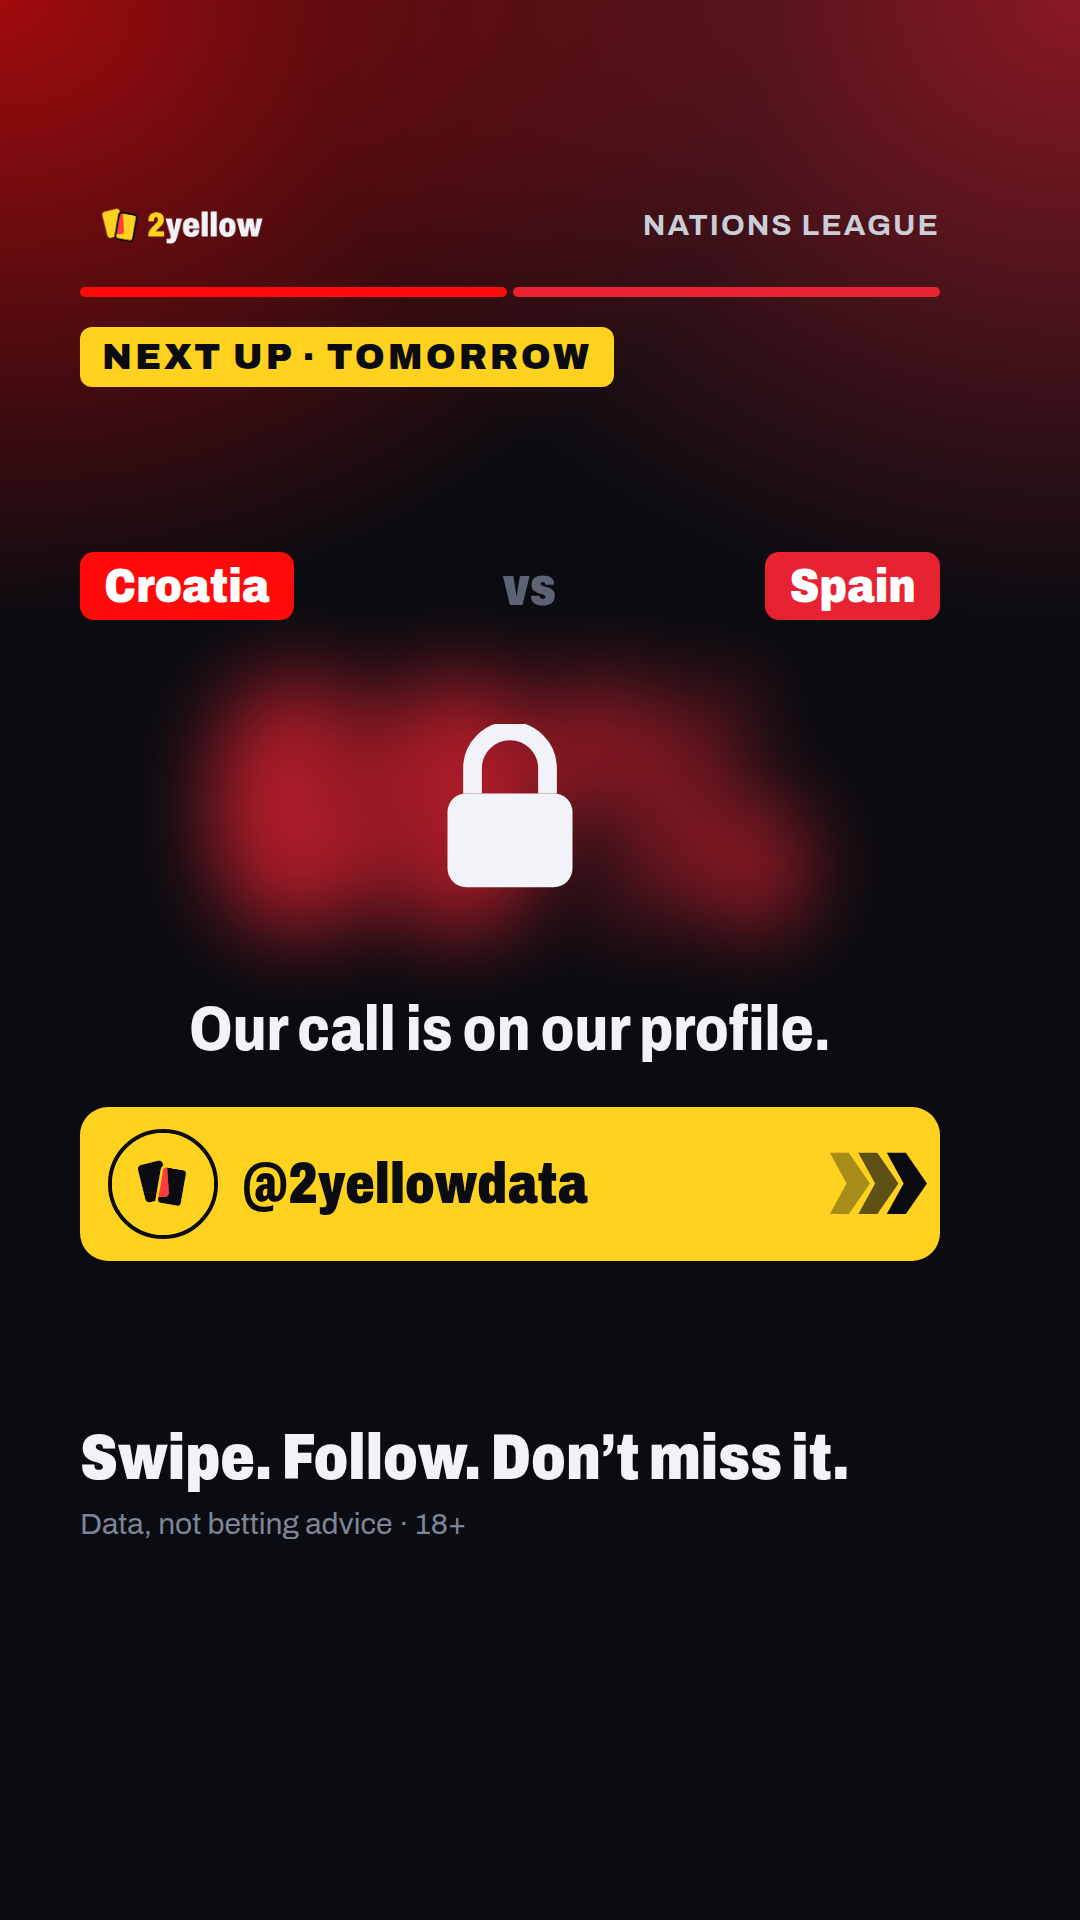
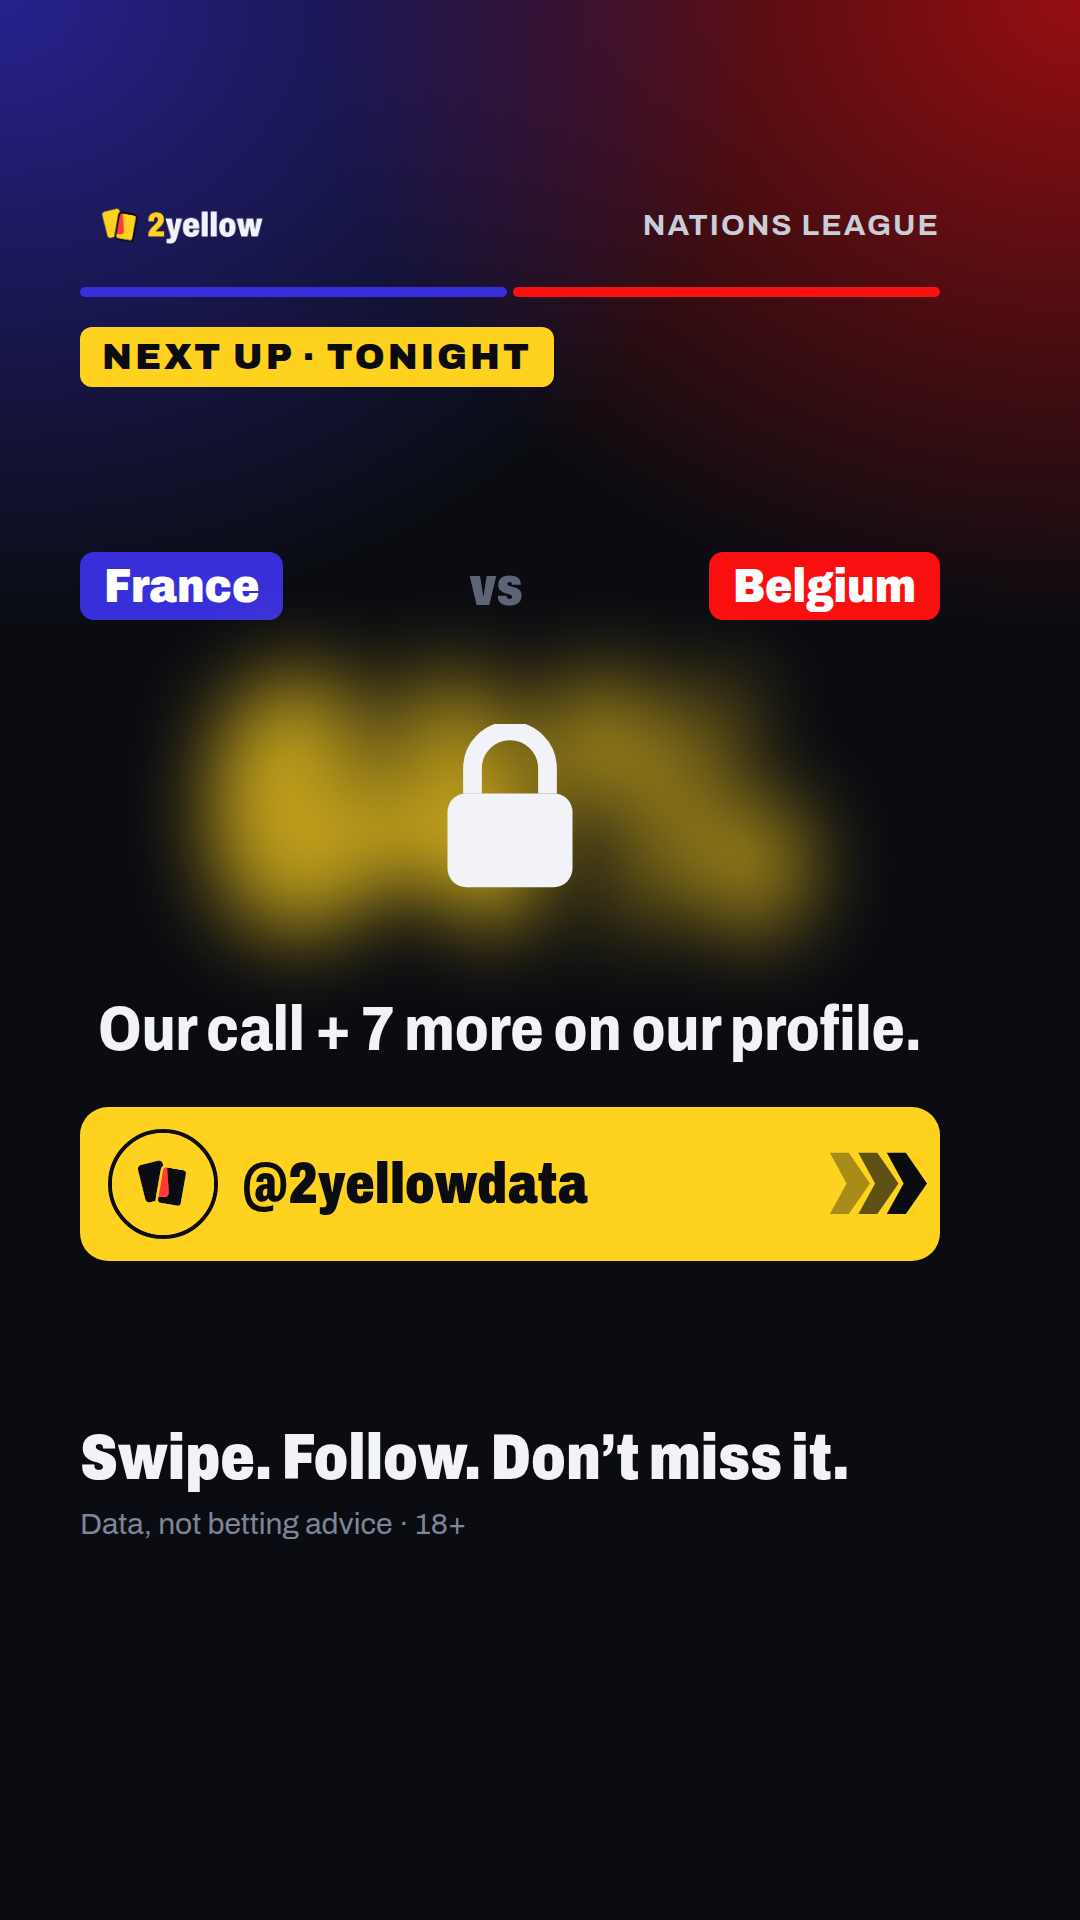
redes: imagen con los 8 pronósticos de hoy y 6ª sincronizada con ella
Claude-Session: https://claude.ai/code/session_018MeJsYiHkoQJUMr9duRCps

Changed region(s): [[0.0, 0.0, 0.8861, 0.5625], [0.4278, 0.2812, 0.5194, 0.3125]]

diff --git a/redes/plantillas/generar.py b/redes/plantillas/generar.py
@@ -386,10 +386,30 @@ def our_calls(d):
     return pagina(d, d.get("kicker", "Unlocked"), cuerpo, d.get("question", "Who are you backing?"))
 
 
+def picks_list(d):
+    """Todos los pronósticos del día en una imagen: hora, partido, nuestra elección y su %."""
+    filas = ""
+    for m in d["picks"]:
+        h, a = dict(m["home"]), dict(m["away"])
+        for t in (h, a):
+            t["c"] = color(t); t.setdefault("short", t["name"])
+        filas += (f'<div style="display:flex;align-items:center;gap:20px;padding:13px 0;border-bottom:2px solid #1E2330">'
+                  f'<div class="mini" style="width:92px;font-size:30px">{e(m["time"])}</div>'
+                  f'<div style="flex:1;min-width:0"><div style="font-size:36px;font-weight:800;white-space:nowrap">'
+                  f'<span style="color:{h["c"]}">&#9679;</span> {e(h["short"])} <span style="color:{GRIS}">v</span> '
+                  f'{e(a["short"])} <span style="color:{a["c"]}">&#9679;</span></div>'
+                  f'<div style="font-size:32px;font-weight:700;color:{AMARILLO};margin-top:2px">{e(m["pick"])}</div></div>'
+                  f'<div class="disp" style="font-size:72px">{m["pct"]}%</div></div>')
+    cuerpo = (f'<div class="frase" style="font-size:66px">{e(d.get("title", "Today’s calls"))}</div>'
+              f'<div>{filas}</div>')
+    return pagina(d, d.get("kicker", "Unlocked"), cuerpo, d.get("question", "Which one are you taking?"))
+
+
 PLANTILLAS = {"prediction": prediction, "upset_alert": upset_alert, "goals": goals, "elo_form": elo_form,
               "key_number": key_number, "deserved": deserved, "prediction_vs_result": prediction_vs_result,
               "upset_happened": upset_happened, "stat_of_match": stat_of_match, "weekend_record": weekend_record,
-              "follow": follow, "our_calls": our_calls}
+              "follow": follow, "our_calls": our_calls,
+              "picks_list": picks_list}
 
 
 def html_de(d):

diff --git a/BITACORA.md b/BITACORA.md
@@ -25,6 +25,7 @@ Dónde está cada cosa:
 
 | qué | por qué | ficheros |
 |---|---|---|
+| Plantilla "picks_list": todos los pronósticos del día en una imagen (hora, partido con colores, elección y %). Primera: las 8 de la Nations League del 05/10 que pasó el usuario (horas pasadas a la española, sin cuotas). Las 6ª de hoy tapan ahora el France-Belgium de esa lista (más de 2.5, 64 %). | Destino del swipe de la 6ª. | `redes/plantillas/` |
 | Imagen del perfil "our_calls" (`datos_selecciones.py perfil <fecha>`): los pronósticos que tapa la 6ª, destapados en una sola imagen (partido grande del día y del siguiente: 1X2, marcador más probable y el mercado de goles más seguro). | Petición del usuario: destino del swipe. | `redes/plantillas/` |
 | Plantilla 6 rehecha con menos texto: el próximo partido grande con nuestro % del favorito DIFUMINADO y un candado, "Our call is on our profile." y barra amarilla @2yellowdata con flechas. En post, sello "7/8 yesterday". | El usuario: le faltaba gancho y sobraba texto. | `redes/plantillas/` |
 | Plantilla 6 (previo y post) "follow": cierre del carrusel que invita a deslizar al perfil y seguir. Gancho con dato real (aciertos de la jornada o nº de partidos ya pronosticados) + el partido más llamativo que viene (por puntos FIFA) + tarjeta @2yellowdata con flechas. | Petición del usuario: un último swipe hacia el perfil con gancho potente. | `redes/plantillas/` |
